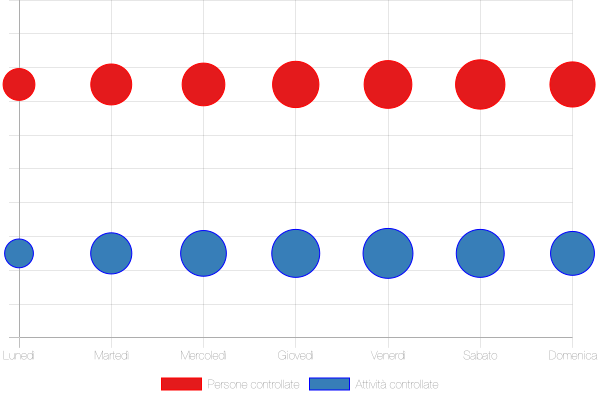
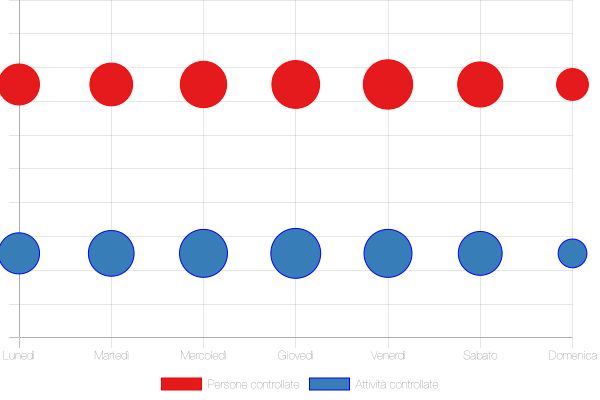
:bug: Fix punchcard day bucket offset

diff --git a/src/chart.js b/src/chart.js
@@ -1,7 +1,5 @@
 const { CanvasRenderService } = require('chartjs-node-canvas');
-const {DATA_FORMAT} = require('./constants.js');
 const {dayjsExtended} = require('./dates.js');
-
 
 const width = 600;
 const height = 400;
@@ -115,7 +113,8 @@ function fromSeriesToPunchCard(series, type){
   let shopsMax = 0;
   const datasets = [[], []];
   for (const record of series) {
-    const day = dayjsExtended(record.meta.date, "DD/MM/YYYY").day();
+    // Add a cyrcular shift to make Monday the first day
+    const day = (dayjsExtended(record.meta.date, "DD/MM/YYYY").day()  - 1 + 7) % 7;
     const peopleValue = record.persone[type];
     peopleMax = Math.max(peopleMax, peopleValue);
     datasets[0][day] = datasets[0][day] || 0;

diff --git a/src/index.js b/src/index.js
@@ -5,7 +5,7 @@ const getContentFromRemoteURL = require('./pdfParser.js');
 const {INDEX_URL, JSON_PATH, CSV_PATH} = require('./constants.js');
 const {getDaysToCheck, getMissingDates, sortByDate} = require('./dates.js');
 const drawCharts = require('./charts.js');
-const {clone, logger, getJSON, writeJSON, writeCSV, writeChart, createCSV, fileExists} = require('./util.js');
+const {clone, logger, getJSON, writeJSON, writeCSV, createCSV, fileExists} = require('./util.js');
 
 const currentJSON = getJSON('../jsons/' + JSON_PATH);
 

diff --git a/src/dates.js b/src/dates.js
@@ -10,7 +10,7 @@ dayjs.locale('it');
 
 module.exports.dayjsExtended = dayjs
                                 .extend(customParseFormat)
-                                .extend(localeData);;
+                                .extend(localeData);
 
 module.exports.sortByDate = (d1, d2) => {
     const dd1 = dayjs(d1, DATE_FORMAT);
